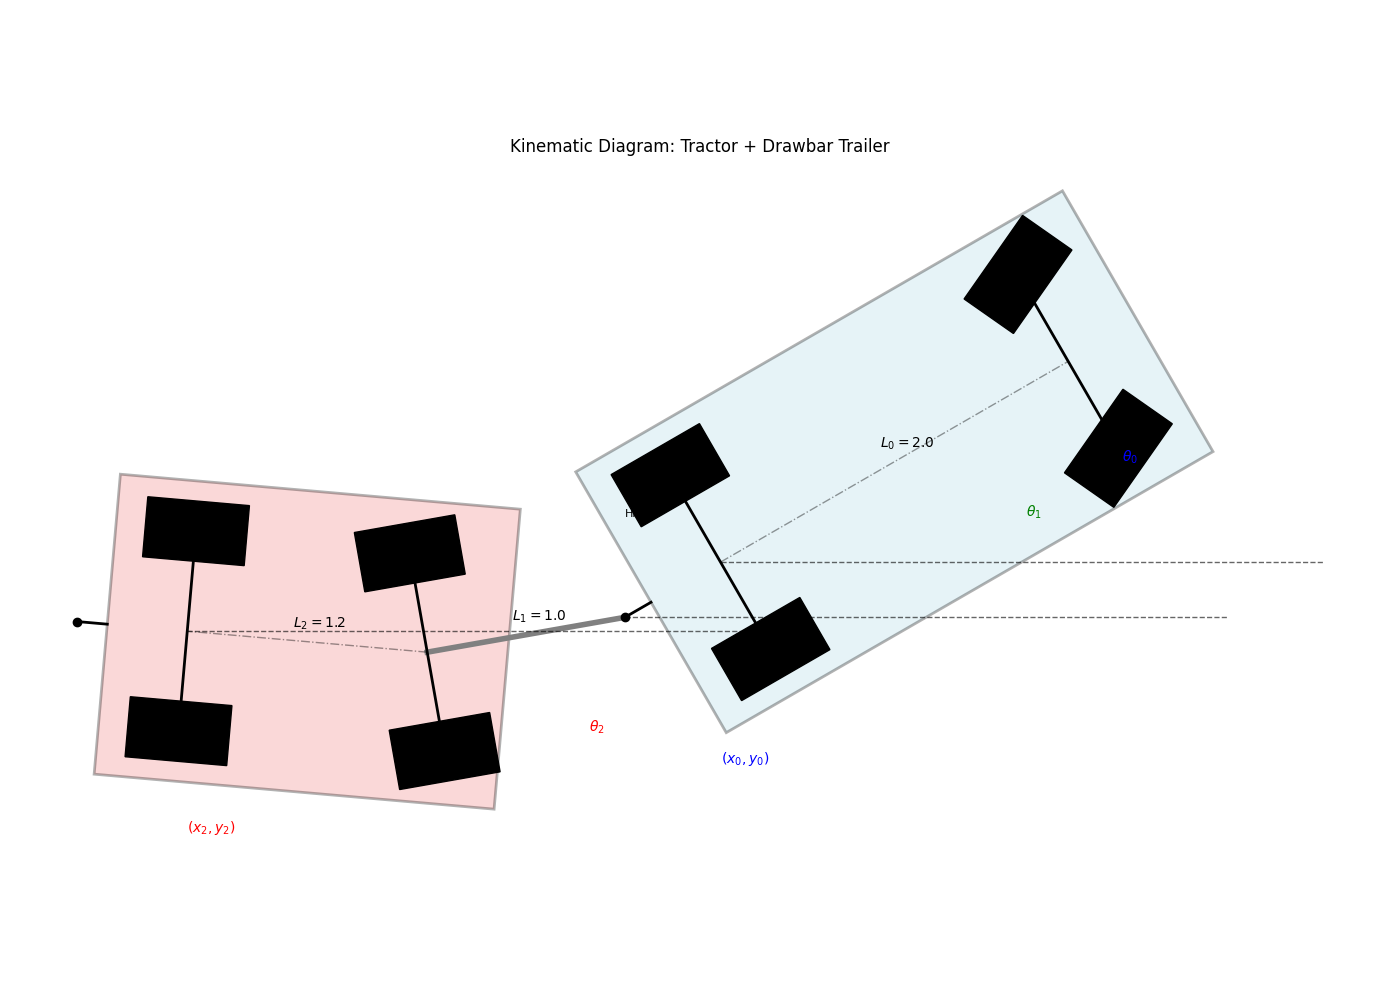
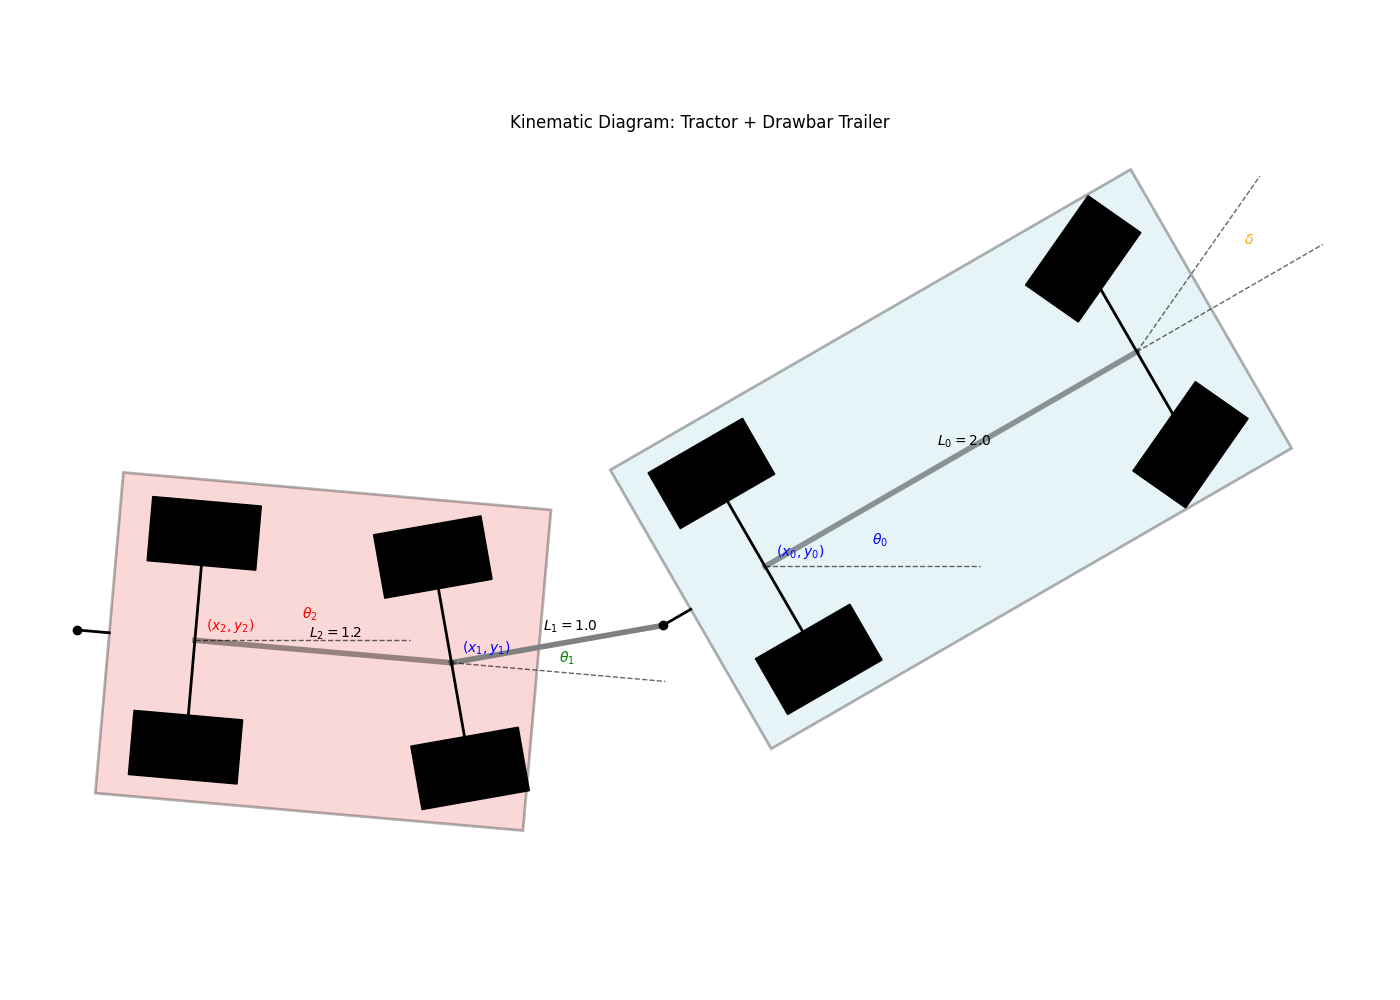
tracter with 1st deawbar trailer 0.1.1

Changed region(s): [[0.0307, 0.155, 0.9214, 0.837], [0.3686, 0.093, 0.645, 0.155], [0.7064, 0.403, 0.7371, 0.434]]

diff --git a/create_diagram.py b/create_diagram.py
@@ -90,9 +90,11 @@ def create_diagram(L0=2.0, L1=1.0, L2=1.2, W=1.5, tractor_width=1.5, tractor_len
                                  linewidth=2, edgecolor='black', facecolor=color, alpha=0.3, label=label)
         ax.add_patch(rect)
 
-    def draw_dashed_ref(ax, center, length=3):
+    def draw_dashed_ref(ax, center, length=1.0, angle=0):
         cx, cy = center
-        ax.plot([cx, cx + length], [cy, cy], 'k--', lw=1, alpha=0.6)
+        dx = length * np.cos(angle)
+        dy = length * np.sin(angle)
+        ax.plot([cx, cx + dx], [cy, cy + dy], 'k--', lw=1, alpha=0.6)
 
     # --- Draw Vehicles ---
 
@@ -126,18 +128,20 @@ def create_diagram(L0=2.0, L1=1.0, L2=1.2, W=1.5, tractor_width=1.5, tractor_len
     # --- Annotations & Reference Lines ---
     
     # Centerline
-    ax.plot([x0, x0_f], [y0, y0_f], 'k-.', lw=1, alpha=0.4)
-    ax.plot([x1, x2], [y1, y2], 'k-.', lw=1, alpha=0.4)
+    ax.plot([x0, x0_f], [y0, y0_f], color='black', lw=4, alpha=0.4)
+    ax.plot([x1, x2], [y1, y2], color='black', lw=4, alpha=0.4)
 
     # Reference Lines (Horizontal)
     draw_dashed_ref(ax, (x0, y0)) # At Tractor Rear Axle
-    draw_dashed_ref(ax, (xh, yh)) # At Hitch (for Drawbar angle)
     draw_dashed_ref(ax, (x2, y2)) # At Trailer Rear Axle
+    draw_dashed_ref(ax, (x1, y1), angle=theta2) # At Hitch (aligned with L2)
+    draw_dashed_ref(ax, (x0_f, y0_f), angle=theta0) # At Front Axle (aligned with L0)
+    draw_dashed_ref(ax, (x0_f, y0_f), angle=theta0 + delta) # At Front Axle (aligned with wheel)
 
     # Points
-    ax.text(x0, y0-1, '$(x_0, y_0)$', color='blue')
-    ax.text(xh, yh+0.5, 'Hitch', fontsize=8)
-    ax.text(x2, y2-1, '$(x_2, y_2)$', color='red')
+    ax.text(x0+0.05, y0+0.05, '$(x_0, y_0)$', color='blue')
+    ax.text(x1+0.05, y1+0.05, '$(x_1, y_1)$', color='blue')
+    ax.text(x2+0.05, y2+0.05, '$(x_2, y_2)$', color='red')
 
     # Dimensions
     ax.annotate(f'$L_0={L0}$', xy=((x0+x0_f)/2, (y0+y0_f)/2), xytext=(-10, 10), textcoords='offset points')
@@ -147,19 +151,21 @@ def create_diagram(L0=2.0, L1=1.0, L2=1.2, W=1.5, tractor_width=1.5, tractor_len
     # Angles
     # Theta0 at Tractor Rear Axle (Baselink)
     patches.Arc((x0, y0), 3, 3, angle=0, theta1=0, theta2=np.degrees(theta0), color='blue')
-    ax.text(x0+2, y0+0.5, r'$\theta_0$', color='blue')
+    ax.text(x0+0.5, y0+0.1, r'$\theta_0$', color='blue')
     
     # Theta1 at Hitch (Baselink of Drawbar)
-    patches.Arc((xh, yh), 3, 3, angle=0, theta1=0, theta2=np.degrees(theta1), color='green')
-    ax.text(xh+2, yh+0.5, r'$\theta_1$', color='green')
+    patches.Arc((x1, y1), 3, 3, angle=0, theta1=np.degrees(theta2), theta2=np.degrees(theta1), color='green')
+    ax.text(x1+0.5, y1, r'$\theta_1$', color='green')
     
     # Theta2 at Trailer Rear Axle (Baselink of Trailer)
     patches.Arc((x2, y2), 3, 3, angle=0, theta1=0, theta2=np.degrees(theta2), color='red')
-    ax.text(x2+2, y2-0.5, r'$\theta_2$', color='red')
+    ax.text(x2+0.5, y2+0.1, r'$\theta_2$', color='red')
+    
+    # Delta at Front Axle
+    patches.Arc((x0_f, y0_f), 3, 3, angle=0, theta1=np.degrees(theta0), theta2=np.degrees(theta0+delta), color='orange')
+    ax.text(x0_f+0.5, y0_f+0.5, r'$\delta$', color='orange')
     
     # Delta removed as requested
-    plt.xlim(-10, 50)
-    plt.ylim(-10, 50)
     plt.title("Kinematic Diagram: Tractor + Drawbar Trailer")
     plt.tight_layout()
     plt.savefig(save_path)

diff --git a/kinematic_model.py b/kinematic_model.py
@@ -1,7 +1,7 @@
 import numpy as np
 
 class TractorTrailerModel:
-    def __init__(self, L0, dh, L1, L2, dt=0.1):
+    def __init__(self, L0, dh, L1, L2, dt=0.1, max_steering_angle=np.radians(30), max_drawbar_angle=np.radians(30), max_velocity=5.0):
         """
         Initialize the kinematic model parameters for Tractor + Dolly + Trailer.
         
@@ -11,12 +11,18 @@ class TractorTrailerModel:
             L1 (float): Drawbar length (Hitch to Dolly Axle).
             L2 (float): Trailer length (Dolly Axle to Trailer Axle).
             dt (float): Time step for discrete update.
+            max_steering_angle (float): Maximum steering angle for tractor (radians).
+            max_drawbar_angle (float): Maximum relative angle for drawbar (radians).
+            max_velocity (float): Maximum longitudinal velocity (m/s).
         """
         self.L0 = L0
         self.dh = dh
         self.L1 = L1
         self.L2 = L2
         self.dt = dt
+        self.max_steering_angle = max_steering_angle
+        self.max_drawbar_angle = max_drawbar_angle
+        self.max_velocity = max_velocity
 
     def get_state_derivative(self, state, v0, delta):
         """
@@ -85,10 +91,36 @@ class TractorTrailerModel:
         """
         Update the state using Euler integration.
         """
+        # Clamp Steering Angle
+        delta = np.clip(delta, -self.max_steering_angle, self.max_steering_angle)
+        
+        # Clamp Velocity
+        v0 = np.clip(v0, -self.max_velocity, self.max_velocity)
+        
         state = np.array(state)
         derivative = self.get_state_derivative(state, v0, delta)
         new_state = state + derivative * self.dt
+        
+        # Clamp Drawbar Angle (relative to Tractor)
+        # theta1 should be within [theta0 - max, theta0 + max]
+        theta0_new = new_state[2]
+        theta1_new = new_state[3]
+        
+        # Normalize relative angle to [-pi, pi]
+        rel_angle = theta1_new - theta0_new
+        while rel_angle > np.pi: rel_angle -= 2*np.pi
+        while rel_angle < -np.pi: rel_angle += 2*np.pi
+        
+        if rel_angle > self.max_drawbar_angle:
+            theta1_new = theta0_new + self.max_drawbar_angle
+        elif rel_angle < -self.max_drawbar_angle:
+            theta1_new = theta0_new - self.max_drawbar_angle
+            
+        new_state[3] = theta1_new
+        
         return new_state
+        
+
 
     def get_coordinates(self, state):
         """

diff --git a/README.md b/README.md
@@ -38,6 +38,11 @@ The system state is defined by 5 variables: $q = [x_0, y_0, \theta_0, \theta_1, 
 *   $v_0$: Longitudinal velocity of the Tractor.
 *   $\delta$: Steering angle of the Tractor's front wheels.
 
+### Constraints
+*   **Tractor Steering Limit**: $\delta \in [-30^\circ, 30^\circ]$.
+*   **Drawbar Steering Limit**: Relative angle between Tractor and Drawbar $\in [-30^\circ, 30^\circ]$.
+*   **Tractor Velocity Limit**: $v_0 \in [-5.0, 5.0]$ m/s (Default).
+
 ## Mathematical Model
 
 The equations of motion are derived assuming **no slip** conditions (non-holonomic constraints) for all wheels. The system is viewed as a chain of rigid bodies.
